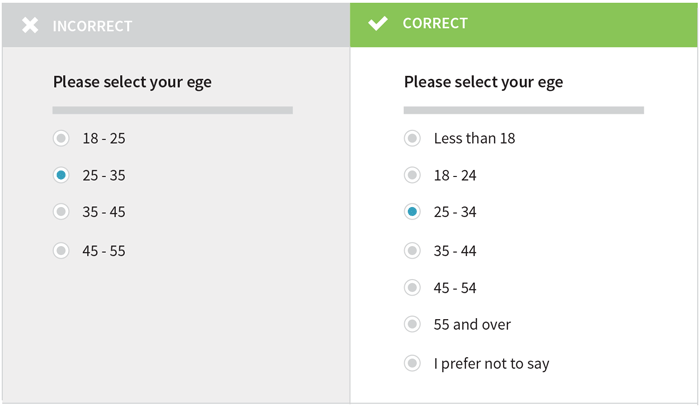
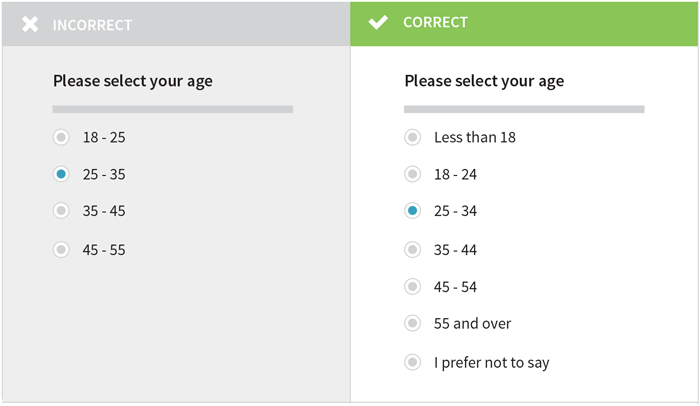
Rm conclusion, fix image typo

diff --git a/01-intro/how-to-use-this-book.html b/01-intro/how-to-use-this-book.html
@@ -87,5 +87,5 @@
 
 <p>If you&rsquo;re reading through the book and notice a typo, or think that something is incorrectly or ambiguously explained, or get a great idea for a new section or chapter, let us know! There are two ways to do this: you can either <a href="https://docs.google.com/a/infoactive.us/forms/d/1LsafHUV-BPQHmQsXHR40UsXS4f0c_jySgMrF9vMloF4/viewform?usp=send_form" target="_blank">fill out this form</a> or, if you&rsquo;re a little bit more technical, follow the directions that we have <a href="https://github.com/infoactive/data-design#can-i-make-edits" target="_blank">on GitHub</a>.</p>
 
-<p>Likewise, if you just aren&rsquo;t sure about something after reading about it, ask us for a better explanation! It&rsquo;s likely that we didn&rsquo;t realize that we could have explained it better (but that doesn&rsquo;t mean we don&rsquo;t want to!). Tweet us at <a href="http://twitter.com/DataDesignBook" target="_blank">@DataDesignBook</a>, email <a href="mailto:ebook@infoactive.co?subject=Data Design Question" target="_blank">ebook@infoactive.co</a>, or check our <a href="http://helpmeviz.com/" target="_blank">HelpMeViz</a> for even more resources. We&rsquo;ll do our best to get your question squared away and will make sure that future editions do a better job addressing the issue.</p>
+<p>Likewise, if you just aren&rsquo;t sure about something after reading about it, ask us for a better explanation! It&rsquo;s likely that we didn&rsquo;t realize that we could have explained it better (but that doesn&rsquo;t mean we don&rsquo;t want to!). Tweet us at <a href="http://twitter.com/DataDesignBook" target="_blank">@DataDesignBook</a>, email <a href="mailto:ebook@infoactive.co?subject=Data Design Question" target="_blank">ebook@infoactive.co</a>, or check out <a href="http://helpmeviz.com/" target="_blank">HelpMeViz</a> for even more resources. We&rsquo;ll do our best to get your question squared away and will make sure that future editions do a better job addressing the issue.</p>
 </section>
